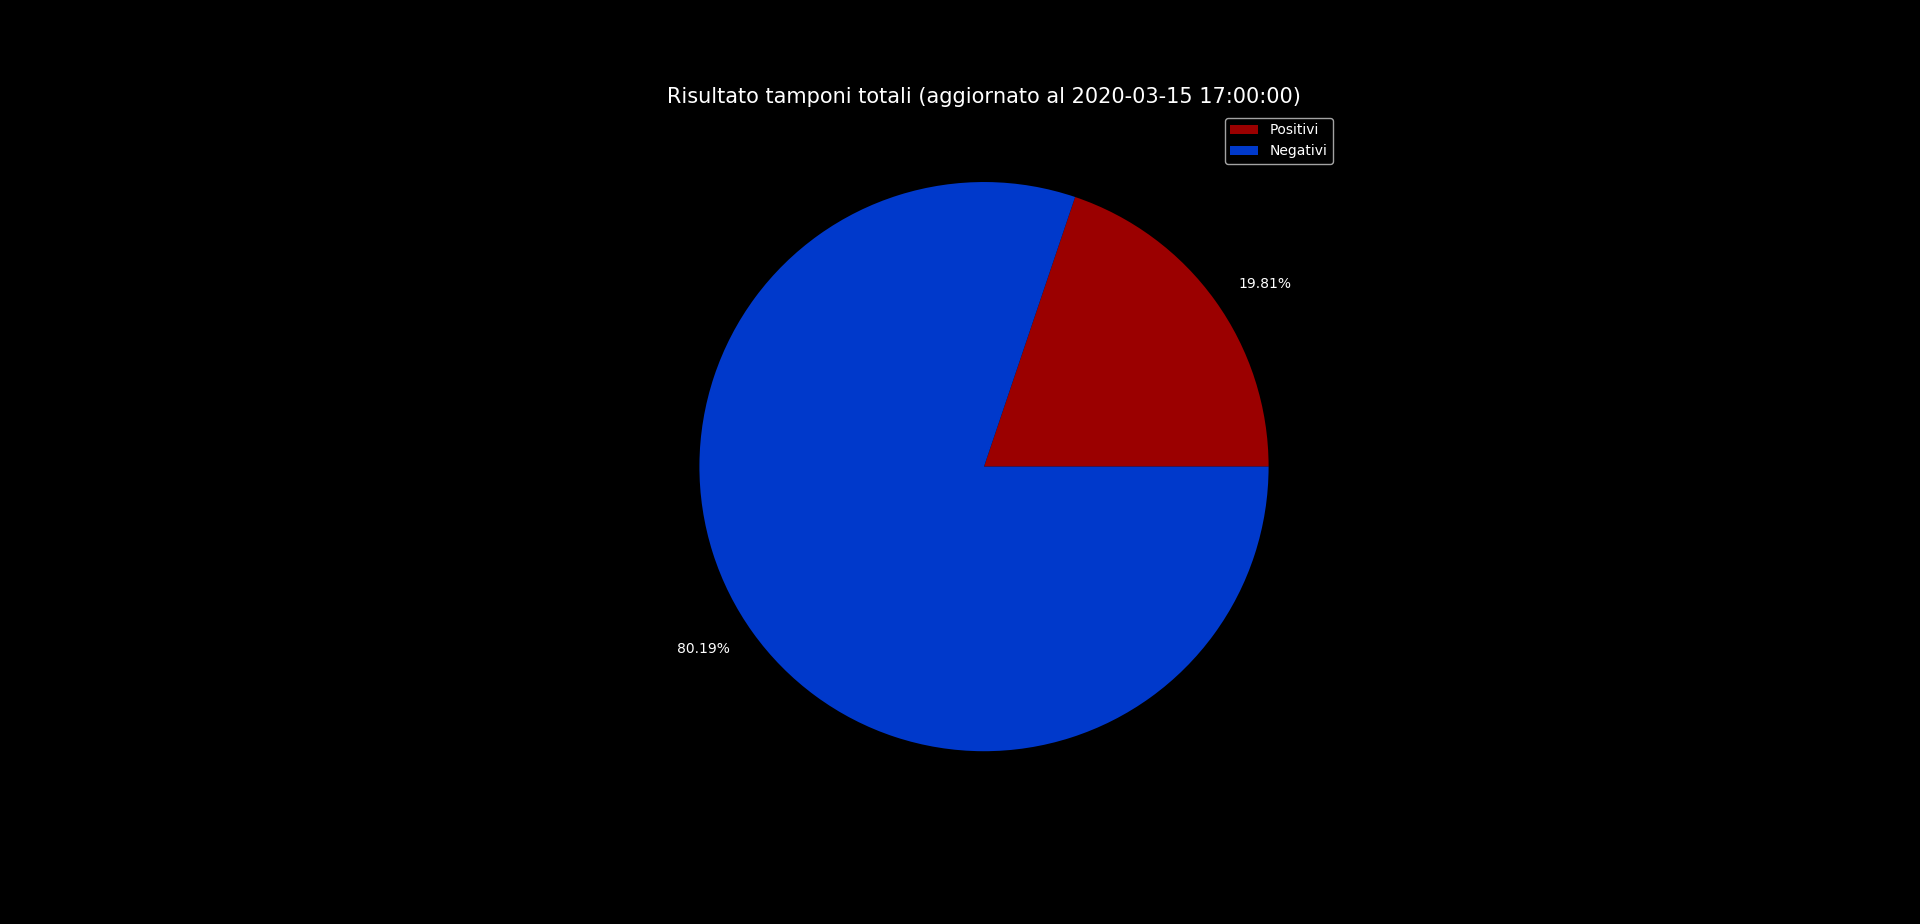
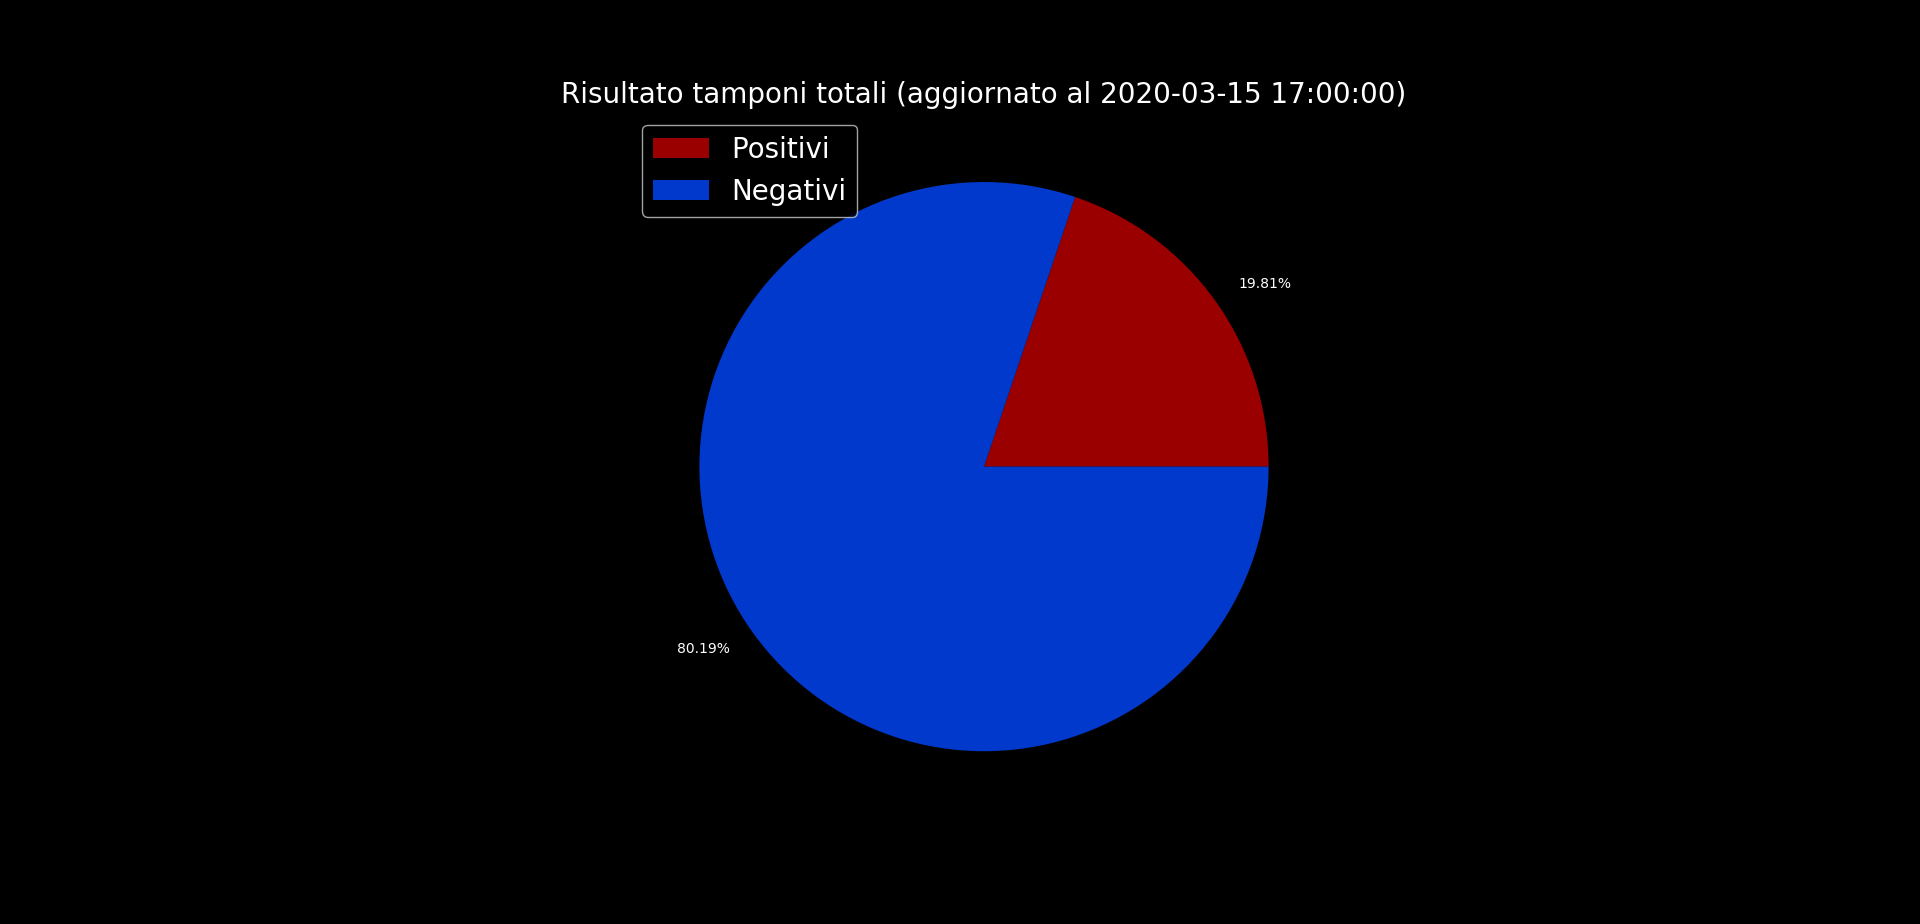
Added 03-15

Changed region(s): [[0.2812, 0.0909, 0.75, 0.2424]]

diff --git a/covid19graphs/src/ContHealDeathPerDay.py b/covid19graphs/src/ContHealDeathPerDay.py
@@ -40,8 +40,8 @@ def addtext(list1, list2, colore):
         i += 1
 
 def showgraph(title):
-    plt.title(title, fontsize=15)
-    plt.legend()
+    plt.title(title, fontsize=20)
+    plt.legend(fontsize = 20)
     plt.show()
 
 def aggiungitesto(giorni, listascelte, listacolori):
@@ -60,7 +60,7 @@ def main():
     removehourandyear(giornocasi)
 
     # Liste di dati
-    decxday = [int(h[9]) if h[9] else 0 for h in listadati]         #Lista decessi per giorno
+    decxday = [int(h[9]) if h[9] else 0 for h in listadati]         #Lista z per giorno
     guaxday = [int(h[8]) if h[8] else 0 for h in listadati]         #Lista guarigioni per giorno
     contxday = [int(h[10])if h[10] else 0 for h in listadati]       #Lista contagiati per giorno
 

diff --git a/covid19graphs/src/RatioTestCases.py b/covid19graphs/src/RatioTestCases.py
@@ -13,7 +13,7 @@ def addtext(list2, colore):
 
 
 def showgraph(title):
-    plt.title(title, fontsize=15)
+    plt.title(title, fontsize=20)
 
     plt.show()
 
@@ -44,7 +44,7 @@ def main():
     plt.style.use('dark_background')
 
     plt.pie(x=[posrel, negrel], labels=valori, colors=["#9b0000", "#0039cb"])
-    plt.legend(labels=["Positivi", "Negativi"])
+    plt.legend(labels=["Positivi", "Negativi"], fontsize=20)
     showgraph("Risultato tamponi totali (aggiornato al {})".format(alldays[0][0]))
 
     barseries = pd.Series(data=[totalecasiposabs, totalecasinegabs], index=["Positivi", "Negativi"])
